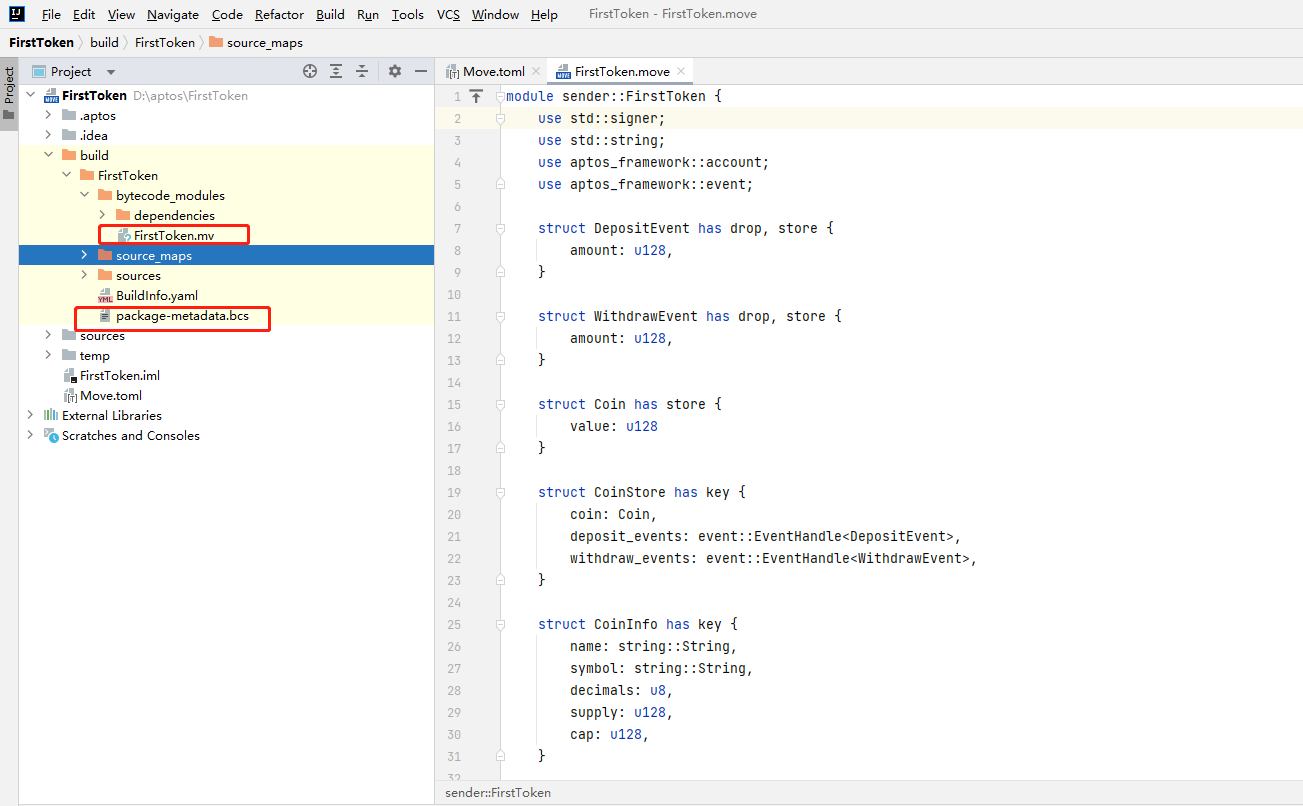
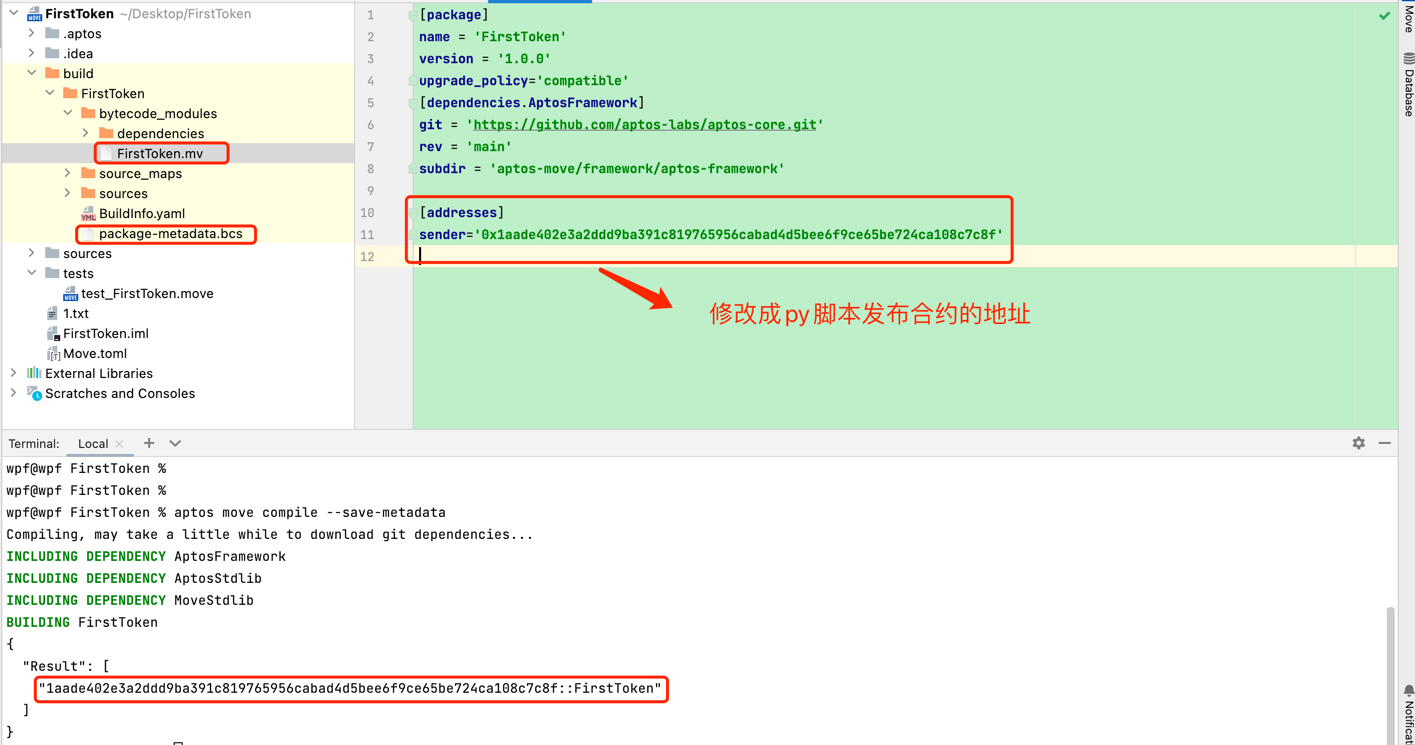
py aptos sdk 与合约交互

diff --git a/python/FirstToken.py b/python/FirstToken.py
@@ -6,49 +6,95 @@ from aptos_sdk.bcs import Serializer
 
 TEST_NODE = 'https://fullnode.testnet.aptoslabs.com/v1'
 rest_client = RestClient(TEST_NODE)
-resource_type = "0xf068e8d56201ed146349ca2d9b0181030b5ec0f3c969b8e2373c82c8bc6a036d::FirstToken::CoinStore"
-function_id = "0xf068e8d56201ed146349ca2d9b0181030b5ec0f3c969b8e2373c82c8bc6a036d::FirstToken"
+resource_type = "0x1aade402e3a2ddd9ba391c819765956cabad4d5bee6f9ce65be724ca108c7c8f::FirstToken::CoinStore"
+function_id = "0x1aade402e3a2ddd9ba391c819765956cabad4d5bee6f9ce65be724ca108c7c8f::FirstToken"
+
+
+# 发布合约
+def publish_first_token(account: Account):
+    module_path = 'FirstToken.mv'  # 自己的文件路径
+    metadata_path = 'package-metadata.bcs'  # 自己的文件路径
+    with open(module_path, "rb") as f:
+        module = f.read()
+    with open(metadata_path, "rb") as f:
+        metadata = f.read()
+    print("\nPublishing FirstToken package.")
+    txn_hash = rest_client.publish_package(account, metadata, [module])
+    rest_client.wait_for_transaction(txn_hash)
+    print(txn_hash)
+
+
+# 初始化代币信息
+def initialize(acc: Account):
+    transaction_arguments = [TransactionArgument('Kobe#Bryant', Serializer.str),
+                             TransactionArgument('Kobe', Serializer.str),
+                             TransactionArgument(8, Serializer.u8),
+                             TransactionArgument(3364300000000, Serializer.u128)]
+    payload = EntryFunction.natural(function_id, "initialize", [], transaction_arguments)
+    signed_transaction = rest_client.create_single_signer_bcs_transaction(acc, TransactionPayload(payload))
+    txn_hash = rest_client.submit_bcs_transaction(signed_transaction)
+    rest_client.wait_for_transaction(txn_hash)
+    print(txn_hash)
+
+
+# 注册资源
+def register(acc: Account):
+    transaction_arguments = []
+    payload = EntryFunction.natural(function_id, "register", [], transaction_arguments)
+    signed_transaction = rest_client.create_single_signer_bcs_transaction(acc, TransactionPayload(payload))
+    txn_hash = rest_client.submit_bcs_transaction(signed_transaction)
+    rest_client.wait_for_transaction(txn_hash)
+    print(txn_hash)
+
+
+# 铸造代币
+def mint(_from: Account, _to: AccountAddress,amount:int):
+    transaction_arguments = [
+        TransactionArgument(_to, Serializer.struct),
+        TransactionArgument(amount, Serializer.u128),
+    ]
+    payload = EntryFunction.natural(function_id, "mint", [], transaction_arguments)
+    signed_transaction = rest_client.create_single_signer_bcs_transaction(_from, TransactionPayload(payload))
+    txn_hash = rest_client.submit_bcs_transaction(signed_transaction)
+    rest_client.wait_for_transaction(txn_hash)
+    print(txn_hash)
+
+
+# 转账
+def transfer(_from: Account, _to: AccountAddress,amount:int):
+    transaction_arguments = [
+        TransactionArgument(_to, Serializer.struct),
+        TransactionArgument(amount, Serializer.u128),
+    ]
+    payload = EntryFunction.natural(function_id, "transfer", [], transaction_arguments)
+    signed_transaction = rest_client.create_single_signer_bcs_transaction(_from, TransactionPayload(payload))
+    txn_hash = rest_client.submit_bcs_transaction(signed_transaction)
+    rest_client.wait_for_transaction(txn_hash)
+    print(txn_hash)
+
 
 # 获取余额
-def get_balance(account_address: AccountAddress) -> str:
+def get_balance(account_address: AccountAddress):
     balance = rest_client.account_resource(
         account_address,
         resource_type
     )
-    return balance["data"]["coin"]["value"]
+    print(balance["data"]["coin"]["value"])
 
-# 注册资源
-def register(acc: Account) -> str:
-    transaction_arguments = []
-    payload = EntryFunction.natural(function_id,"register",[],transaction_arguments)
-    signed_transaction = rest_client.create_single_signer_bcs_transaction(acc, TransactionPayload(payload))
-    txn_hash = rest_client.submit_bcs_transaction(signed_transaction)
-    rest_client.wait_for_transaction(txn_hash)
-    return txn_hash
-
-# 铸造代币
-def mint(_from: Account, _to: AccountAddress) -> str:
-    transaction_arguments = [
-        TransactionArgument(_to, Serializer.struct),
-        TransactionArgument(5000, Serializer.u128),
-    ]
-    payload = EntryFunction.natural(function_id,"mint",[],transaction_arguments)
-    signed_transaction = rest_client.create_single_signer_bcs_transaction(_from, TransactionPayload(payload))
-    txn_hash = rest_client.submit_bcs_transaction(signed_transaction)
-    rest_client.wait_for_transaction(txn_hash)
-    return txn_hash
-
-#主函数
+# 主函数
 if __name__ == "__main__":
-    account_address = AccountAddress.from_hex(
[1 lines of base64/hex data omitted]
-    balance = get_balance(account_address)
-    print(balance)
-    _from = Account.load("alice.txt")#请自行配置合约部署对应的私钥
-    _to = Account.load('bob.txt')#请自行配置转账的私钥
-    # tx_hash = register(_to)#只需要注册一次
-    # print(tx_hash)
-    # tx_hash = mint(_from, _to.account_address)
-    # print(tx_hash)
-    bob_balance = get_balance(_to.account_address)
-    print(bob_balance)
+    alice = Account.load("alice.txt")  # 请自行配置合约部署对应的私钥
+    bob = Account.load('bob.txt')  # 请自行配置转账的私钥
+    # publish_first_token(alice); #alice 部署合约 只需执行一次
+
+    # initialize(alice)  # 初始化代币信息 必须是合约部署者 只需执行一次
+
+    # register(alice);    #alice生产CoinStore资源 只需执行一次
+    # register(bob);      #bob生产CoinStore资源 只需执行一次
+
+    # mint(alice,alice.account_address,88888888)
+    # get_balance(alice.account_address)
+
+    # transfer(alice,bob.account_address,6666666)
+    get_balance(alice.account_address)
+    get_balance(bob.account_address)

diff --git a/01-构建move开发环境/14-aptos-sdk-first_token.md b/01-构建move开发环境/14-aptos-sdk-first_token.md
@@ -11,58 +11,118 @@ from aptos_sdk.bcs import Serializer
 
 TEST_NODE = 'https://fullnode.testnet.aptoslabs.com/v1'
 rest_client = RestClient(TEST_NODE)
-# 0xf068e8d56201ed146349ca2d9b0181030b5ec0f3c969b8e2373c82c8bc6a036d 请自己部署合约的地址
-resource_type = "0xf068e8d56201ed146349ca2d9b0181030b5ec0f3c969b8e2373c82c8bc6a036d::FirstToken::CoinStore"
-function_id = "0xf068e8d56201ed146349ca2d9b0181030b5ec0f3c969b8e2373c82c8bc6a036d::FirstToken"
+resource_type = "0x1aade402e3a2ddd9ba391c819765956cabad4d5bee6f9ce65be724ca108c7c8f::FirstToken::CoinStore"
+function_id = "0x1aade402e3a2ddd9ba391c819765956cabad4d5bee6f9ce65be724ca108c7c8f::FirstToken"
 ```
 
-## 2. 获取余额
 
+## 1. 使用SDK部署合约
+
+### 1.1 获取```FirstToken```编译后的源文件
++ 修改```FirstToken```工程里```Move.toml``` **将地址修改成python脚本中部署所对应的账户**
++ 执行 ```shell aptos move compile --save-metadata ``` 获取编译后的源文件:[package-metadata.bcs](https://github.com/wpf008/hello_move/blob/master/python/package-metadata.bcs),[FirstToken.mv](https://github.com/wpf008/hello_move/blob/master/python/FirstToken.mv)
+  ![image](../asset/first_token_metadata.png)
+
+### 1.2 编写python publish脚本
+```shell
+# 发布合约
+def publish_first_token(account: Account):
+    module_path = 'FirstToken.mv'  # 自己的文件路径
+    metadata_path = 'package-metadata.bcs'  # 自己的文件路径
+    with open(module_path, "rb") as f:
+        module = f.read()
+    with open(metadata_path, "rb") as f:
+        metadata = f.read()
+    print("\nPublishing FirstToken package.")
+    txn_hash = rest_client.publish_package(account, metadata, [module])
+    rest_client.wait_for_transaction(txn_hash)
+    print(txn_hash)
+```
+>在[区块链浏览器](https://explorer.aptoslabs.com/account/0x1aade402e3a2ddd9ba391c819765956cabad4d5bee6f9ce65be724ca108c7c8f/modules)中可以看到
+>![image](../asset/py_publish.png)
+
+
+
+## 2.初始化代币信息
 ```python
-def get_balance(account_address: AccountAddress) -> str:
-    balance = rest_client.account_resource(account_address, resource_type)
-    return balance["data"]["coin"]["value"]
+def initialize(acc: Account):
+    transaction_arguments = [TransactionArgument('Kobe#Bryant', Serializer.str),
+                             TransactionArgument('Kobe', Serializer.str),
+                             TransactionArgument(8, Serializer.u8),
+                             TransactionArgument(3364300000000, Serializer.u128)]
+    payload = EntryFunction.natural(function_id, "initialize", [], transaction_arguments)
+    signed_transaction = rest_client.create_single_signer_bcs_transaction(acc, TransactionPayload(payload))
+    txn_hash = rest_client.submit_bcs_transaction(signed_transaction)
+    rest_client.wait_for_transaction(txn_hash)
+    print(txn_hash)
 ```
 
-## 4. 注册资源
 
-```python
-def register(acc: Account) -> str:
+## 3.初始化CoinStore资源
+````python
+def register(acc: Account):
     transaction_arguments = []
     payload = EntryFunction.natural(function_id, "register", [], transaction_arguments)
     signed_transaction = rest_client.create_single_signer_bcs_transaction(acc, TransactionPayload(payload))
     txn_hash = rest_client.submit_bcs_transaction(signed_transaction)
     rest_client.wait_for_transaction(txn_hash)
-    return txn_hash
-```
+    print(txn_hash)
+````
 
-## 4. mint代币
-
+## 4.铸造代币
 ```python
-def mint(_from: Account, _to: AccountAddress) -> str:
+# 铸造代币
+def mint(_from: Account, _to: AccountAddress,amount:int):
     transaction_arguments = [
         TransactionArgument(_to, Serializer.struct),
-        TransactionArgument(5000, Serializer.u128),
+        TransactionArgument(amount, Serializer.u128),
     ]
     payload = EntryFunction.natural(function_id, "mint", [], transaction_arguments)
     signed_transaction = rest_client.create_single_signer_bcs_transaction(_from, TransactionPayload(payload))
     txn_hash = rest_client.submit_bcs_transaction(signed_transaction)
     rest_client.wait_for_transaction(txn_hash)
-    return txn_hash
+    print(txn_hash)
 ```
+
+## 5.转账
+```python
+def transfer(_from: Account, _to: AccountAddress,amount:int):
+    transaction_arguments = [
+        TransactionArgument(_to, Serializer.struct),
+        TransactionArgument(amount, Serializer.u128),
+    ]
+    payload = EntryFunction.natural(function_id, "transfer", [], transaction_arguments)
+    signed_transaction = rest_client.create_single_signer_bcs_transaction(_from, TransactionPayload(payload))
+    txn_hash = rest_client.submit_bcs_transaction(signed_transaction)
+    rest_client.wait_for_transaction(txn_hash)
+    print(txn_hash)
+```
+## 6.main函数
+````python
+if __name__ == "__main__":
+    # 请自行配置合约部署对应的私钥和地址，文件内容格式：{"account_address":"your address","private_key":"your pk"}
+    alice = Account.load("alice.txt")  
+    bob = Account.load('bob.txt')  # 请自行配置所需私钥
+    # publish_first_token(alice); #alice 部署合约 只需执行一次
+
+    # initialize(alice)  # 初始化代币信息 必须是合约部署者 只需执行一次
+
+    # register(alice);    #alice生产CoinStore资源 只需执行一次
+    # register(bob);      #bob生产CoinStore资源 只需执行一次
+
+    # mint(alice,alice.account_address,88888888)
+    # get_balance(alice.account_address)
+
+    # transfer(alice,bob.account_address,6666666)
+    get_balance(alice.account_address)
+    get_balance(bob.account_address)
+````
 
 > [完整代码](https://github.com/wpf008/hello_move/blob/master/python/FirstToken.py)
 
-## 5. 使用SDK部署合约
-
-### 5.1 获取```FirstToken```编译后的源文件
-
-+ 执行 ```shell aptos move compile --save-metadata ``` 获取编译后的源文件:package-metadata.bcs,FirstToken.mv
-  ![image](first_token_metadata.png)
-+ 将这2个文件copy到你python的工程目录中
 
 ----
-> 至此我们学习了```aptos-sdk```常用API，我们将使用```aptos```,接下来将使用```Python SDK```与合约交互。
+> 至此我们学习了如何使用```Python aptos-sdk```部署合约并与合约交互。接下来将讲解```MoveStdLib```源码解读
 
 
 

diff --git a/01-构建move开发环境/11-erc20.md b/01-构建move开发环境/11-erc20.md
@@ -20,7 +20,7 @@ profiles:
   default:
     private_key: "****"
     public_key: "****"
-    account: dc33b8ca18676247c66e607bc638b54b6cbc789d68cb20e5158ce8fe6131434b
+    account: 0xf068e8d56201ed146349ca2d9b0181030b5ec0f3c969b8e2373c82c8bc6a036d
     rest_url: "https://fullnode.testnet.aptoslabs.com"
 ```
 
